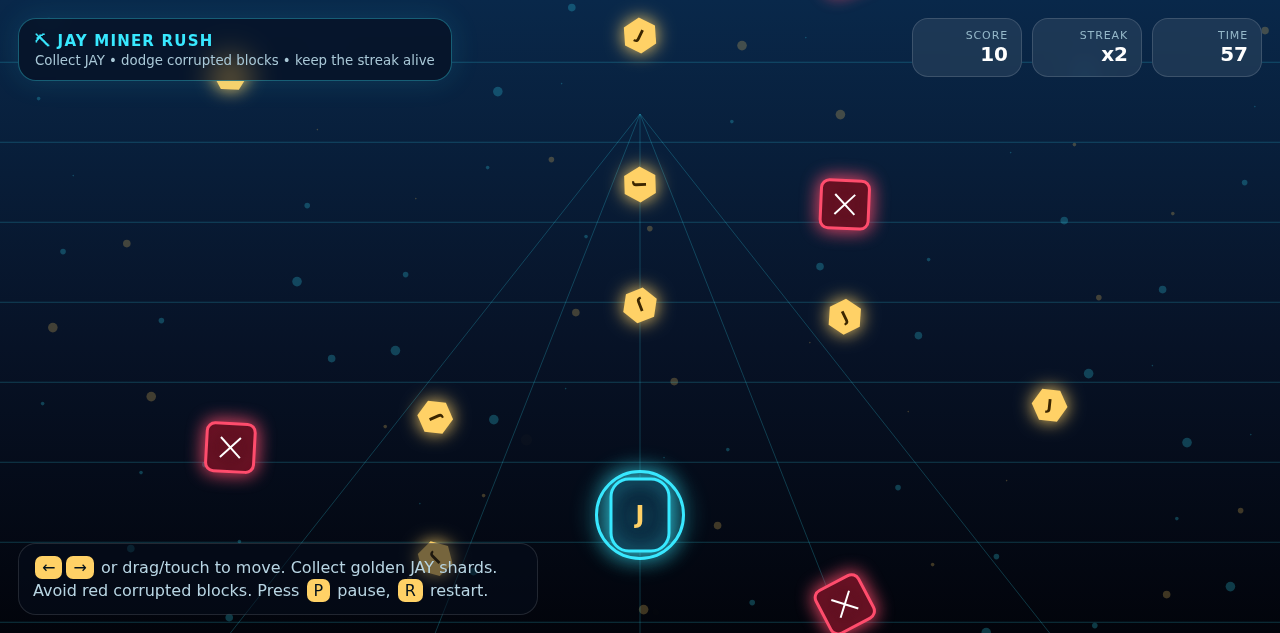
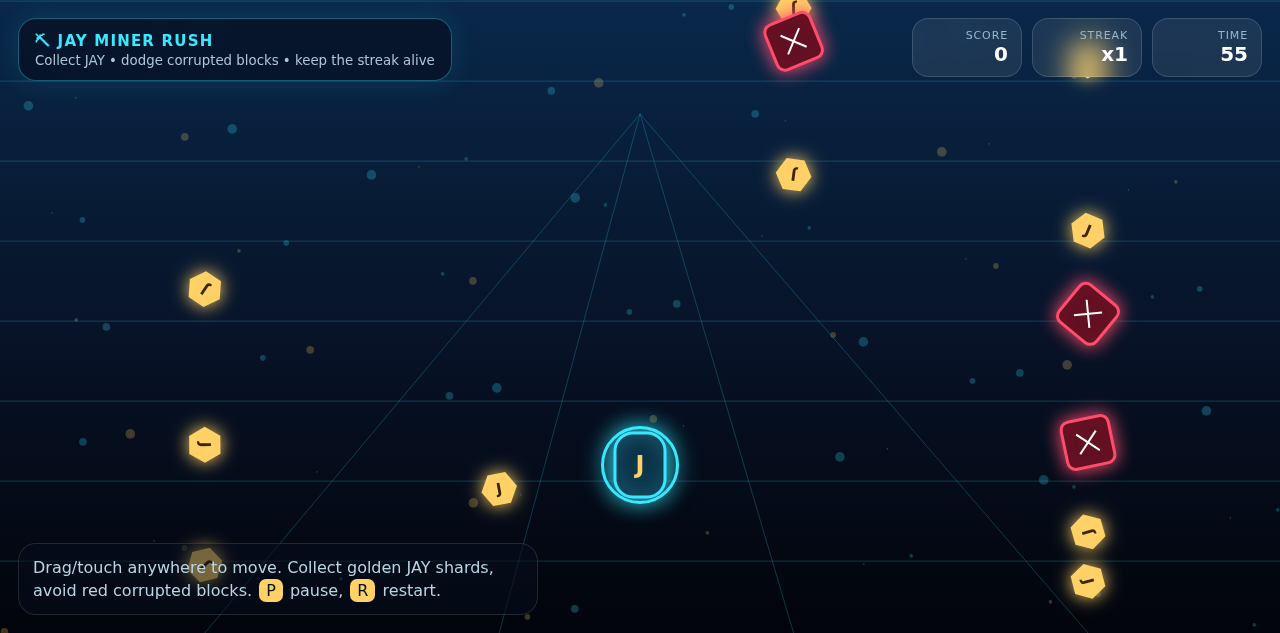
Improve JAY Miner Rush mobile layout
- Add viewport-fit support for mobile webviews
- Compact HUD, stats, and help panel on narrow screens
- Move player higher on mobile so bottom help/browser UI does not cover it
- Reduce mobile lanes to improve touch playability
- Shorten control copy for small screens
- Refresh gameplay screenshot

diff --git a/games/jay-miner-rush/index.html b/games/jay-miner-rush/index.html
@@ -2,7 +2,7 @@
 <html lang="en">
 <head>
   <meta charset="UTF-8" />
-  <meta name="viewport" content="width=device-width, initial-scale=1.0, maximum-scale=1.0, user-scalable=no" />
+  <meta name="viewport" content="width=device-width, initial-scale=1.0, maximum-scale=1.0, user-scalable=no, viewport-fit=cover" />
   <title>JAY Miner Rush</title>
   <style>
     :root {
@@ -10,14 +10,14 @@
     }
     *{box-sizing:border-box} html,body{margin:0;height:100%;overflow:hidden;background:radial-gradient(circle at 50% 15%,#123c68 0%,var(--bg0) 58%,#02040b 100%);font-family:Inter,ui-sans-serif,system-ui,-apple-system,Segoe UI,sans-serif;color:var(--ink);touch-action:none;user-select:none}
     canvas{display:block;width:100vw;height:100vh}
-    .hud{position:fixed;inset:0;pointer-events:none;padding:18px;display:flex;flex-direction:column;justify-content:space-between;z-index:2}.top{display:flex;gap:12px;align-items:flex-start;justify-content:space-between}.brand{padding:12px 16px;border:1px solid rgba(56,232,255,.35);background:rgba(5,12,28,.62);backdrop-filter:blur(14px);border-radius:18px;box-shadow:0 0 30px rgba(56,232,255,.12)}.brand b{letter-spacing:.08em;color:var(--cyan);font-size:15px}.brand small{display:block;color:#a9c8d7;margin-top:3px}.stats{display:flex;gap:10px;flex-wrap:wrap;justify-content:flex-end}.pill{min-width:110px;text-align:right;padding:10px 13px;border-radius:16px;border:1px solid rgba(255,255,255,.14);background:rgba(255,255,255,.08);backdrop-filter:blur(14px)}.pill span{display:block;font-size:11px;color:#95b8c9;text-transform:uppercase;letter-spacing:.08em}.pill strong{font-size:20px;color:#fff}.bottom{display:flex;align-items:flex-end;justify-content:space-between;gap:16px}.help{max-width:520px;color:#b8d5e3;background:rgba(5,12,28,.55);border:1px solid rgba(255,255,255,.12);border-radius:18px;padding:12px 14px;line-height:1.45}.help kbd{font:inherit;color:#02111c;background:var(--jay);padding:2px 7px;border-radius:7px;margin:0 2px}.overlay{position:fixed;inset:0;display:grid;place-items:center;background:linear-gradient(180deg,rgba(2,4,11,.55),rgba(2,4,11,.82));z-index:4}.card{width:min(640px,92vw);border-radius:28px;padding:32px;background:rgba(6,16,35,.82);border:1px solid rgba(56,232,255,.28);box-shadow:0 24px 90px rgba(0,0,0,.55),0 0 80px rgba(56,232,255,.12);text-align:center}.logo{font-size:54px;filter:drop-shadow(0 0 20px rgba(255,209,102,.5))}.card h1{margin:8px 0 8px;font-size:clamp(36px,7vw,64px);line-height:.95;letter-spacing:-.06em}.card h1 span{color:var(--jay)}.card p{color:#bdd6e6;font-size:17px;line-height:1.55;margin:14px auto;max-width:540px}.btn{pointer-events:auto;cursor:pointer;border:0;border-radius:999px;padding:15px 26px;margin-top:16px;font-weight:800;font-size:16px;color:#04101f;background:linear-gradient(90deg,var(--jay),#70ffb7,var(--cyan));box-shadow:0 10px 34px rgba(56,232,255,.24);transition:.18s transform}.btn:hover{transform:translateY(-2px) scale(1.02)}.hidden{display:none}.flash{animation:flash .25s}@keyframes flash{from{filter:brightness(1.6)}to{filter:brightness(1)}}
+    .hud{position:fixed;inset:0;pointer-events:none;padding:18px;display:flex;flex-direction:column;justify-content:space-between;z-index:2}.top{display:flex;gap:12px;align-items:flex-start;justify-content:space-between}.brand{padding:12px 16px;border:1px solid rgba(56,232,255,.35);background:rgba(5,12,28,.62);backdrop-filter:blur(14px);border-radius:18px;box-shadow:0 0 30px rgba(56,232,255,.12)}.brand b{letter-spacing:.08em;color:var(--cyan);font-size:15px}.brand small{display:block;color:#a9c8d7;margin-top:3px}.stats{display:flex;gap:10px;flex-wrap:wrap;justify-content:flex-end}.pill{min-width:110px;text-align:right;padding:10px 13px;border-radius:16px;border:1px solid rgba(255,255,255,.14);background:rgba(255,255,255,.08);backdrop-filter:blur(14px)}.pill span{display:block;font-size:11px;color:#95b8c9;text-transform:uppercase;letter-spacing:.08em}.pill strong{font-size:20px;color:#fff}.bottom{display:flex;align-items:flex-end;justify-content:space-between;gap:16px}.help{max-width:520px;color:#b8d5e3;background:rgba(5,12,28,.55);border:1px solid rgba(255,255,255,.12);border-radius:18px;padding:12px 14px;line-height:1.45}.help kbd{font:inherit;color:#02111c;background:var(--jay);padding:2px 7px;border-radius:7px;margin:0 2px}.overlay{position:fixed;inset:0;display:grid;place-items:center;background:linear-gradient(180deg,rgba(2,4,11,.55),rgba(2,4,11,.82));z-index:4}.card{width:min(640px,92vw);border-radius:28px;padding:32px;background:rgba(6,16,35,.82);border:1px solid rgba(56,232,255,.28);box-shadow:0 24px 90px rgba(0,0,0,.55),0 0 80px rgba(56,232,255,.12);text-align:center}.logo{font-size:54px;filter:drop-shadow(0 0 20px rgba(255,209,102,.5))}.card h1{margin:8px 0 8px;font-size:clamp(36px,7vw,64px);line-height:.95;letter-spacing:-.06em}.card h1 span{color:var(--jay)}.card p{color:#bdd6e6;font-size:17px;line-height:1.55;margin:14px auto;max-width:540px}.btn{pointer-events:auto;cursor:pointer;border:0;border-radius:999px;padding:15px 26px;margin-top:16px;font-weight:800;font-size:16px;color:#04101f;background:linear-gradient(90deg,var(--jay),#70ffb7,var(--cyan));box-shadow:0 10px 34px rgba(56,232,255,.24);transition:.18s transform}.btn:hover{transform:translateY(-2px) scale(1.02)}@media (max-width:700px){.hud{padding:calc(8px + env(safe-area-inset-top)) 10px calc(8px + env(safe-area-inset-bottom));}.top{gap:8px}.brand{max-width:52vw;padding:10px 12px;border-radius:16px}.brand b{font-size:13px}.brand small{font-size:12px;line-height:1.25}.stats{flex-direction:column;gap:8px;align-items:flex-end}.pill{min-width:82px;padding:8px 10px;border-radius:15px}.pill span{font-size:9px}.pill strong{font-size:21px}.bottom{justify-content:center}.help{max-width:calc(100vw - 20px);padding:9px 12px;border-radius:16px;font-size:13px;line-height:1.3;text-align:center;background:rgba(5,12,28,.48)}.help kbd{padding:1px 6px}.card{padding:24px 20px;border-radius:24px}.card p{font-size:15px}.logo{font-size:46px}}@media (max-height:620px){.brand small{display:none}.help{font-size:12px;padding:7px 10px}.pill{padding:7px 9px}.card{transform:scale(.92)}}.hidden{display:none}.flash{animation:flash .25s}@keyframes flash{from{filter:brightness(1.6)}to{filter:brightness(1)}}
   </style>
 </head>
 <body>
   <canvas id="game"></canvas>
   <div class="hud">
     <div class="top"><div class="brand"><b>⛏ JAY MINER RUSH</b><small>Collect JAY • dodge corrupted blocks • keep the streak alive</small></div><div class="stats"><div class="pill"><span>Score</span><strong id="score">0</strong></div><div class="pill"><span>Streak</span><strong id="streak">x1</strong></div><div class="pill"><span>Time</span><strong id="time">60</strong></div></div></div>
-    <div class="bottom"><div class="help"><kbd>←</kbd><kbd>→</kbd> or drag/touch to move. Collect golden JAY shards. Avoid red corrupted blocks. Press <kbd>P</kbd> pause, <kbd>R</kbd> restart.</div></div>
+    <div class="bottom"><div class="help">Drag/touch anywhere to move. Collect golden JAY shards, avoid red corrupted blocks. <kbd>P</kbd> pause, <kbd>R</kbd> restart.</div></div>
   </div>
   <div class="overlay" id="overlay"><div class="card"><div class="logo">💎</div><h1>JAY <span>Miner</span> Rush</h1><p>Race through the mempool, mine JAY shards, and dodge corrupted blocks before the epoch timer runs out.</p><button class="btn" id="startBtn">Start Mining</button></div></div>
 <script>
@@ -26,7 +26,7 @@
   const scoreEl = document.getElementById('score'), streakEl = document.getElementById('streak'), timeEl = document.getElementById('time'), overlay = document.getElementById('overlay'), startBtn = document.getElementById('startBtn');
   let W=0,H=0,dpr=1, keys={}, running=false, paused=false, ended=false, last=0, spawnCoin=0, spawnHazard=0, score=0, streak=1, bestStreak=1, timeLeft=60, particles=[], coins=[], hazards=[], lanes=[];
   const player={x:0,y:0,w:58,h:72,vx:0,shield:0};
-  function resize(){dpr=Math.min(devicePixelRatio||1,2);W=innerWidth;H=innerHeight;canvas.width=W*dpr;canvas.height=H*dpr;ctx.setTransform(dpr,0,0,dpr,0,0);player.y=H-118;lanes=[W*.18,W*.34,W*.5,W*.66,W*.82]} addEventListener('resize',resize); resize();
+  function resize(){dpr=Math.min(devicePixelRatio||1,2);W=innerWidth;H=innerHeight;canvas.width=W*dpr;canvas.height=H*dpr;ctx.setTransform(dpr,0,0,dpr,0,0);const mobile=W<700||H<700;player.y=H-(mobile?210:118);player.w=mobile?50:58;player.h=mobile?64:72;lanes=mobile?[W*.16,W*.39,W*.62,W*.85]:[W*.18,W*.34,W*.5,W*.66,W*.82]} addEventListener('resize',resize); resize();
   function rand(a,b){return a+Math.random()*(b-a)} function clamp(v,a,b){return Math.max(a,Math.min(b,v))}
   function start(){running=true;paused=false;ended=false;overlay.classList.add('hidden');score=0;streak=1;bestStreak=1;timeLeft=60;coins=[];hazards=[];particles=[];player.x=W/2;player.vx=0;last=performance.now();requestAnimationFrame(loop)}
   startBtn.onclick=start; document.addEventListener('keydown',e=>{keys[e.key.toLowerCase()]=true;if(e.key.toLowerCase()==='r')start();if(e.key.toLowerCase()==='p')paused=!paused}); document.addEventListener('keyup',e=>keys[e.key.toLowerCase()]=false);